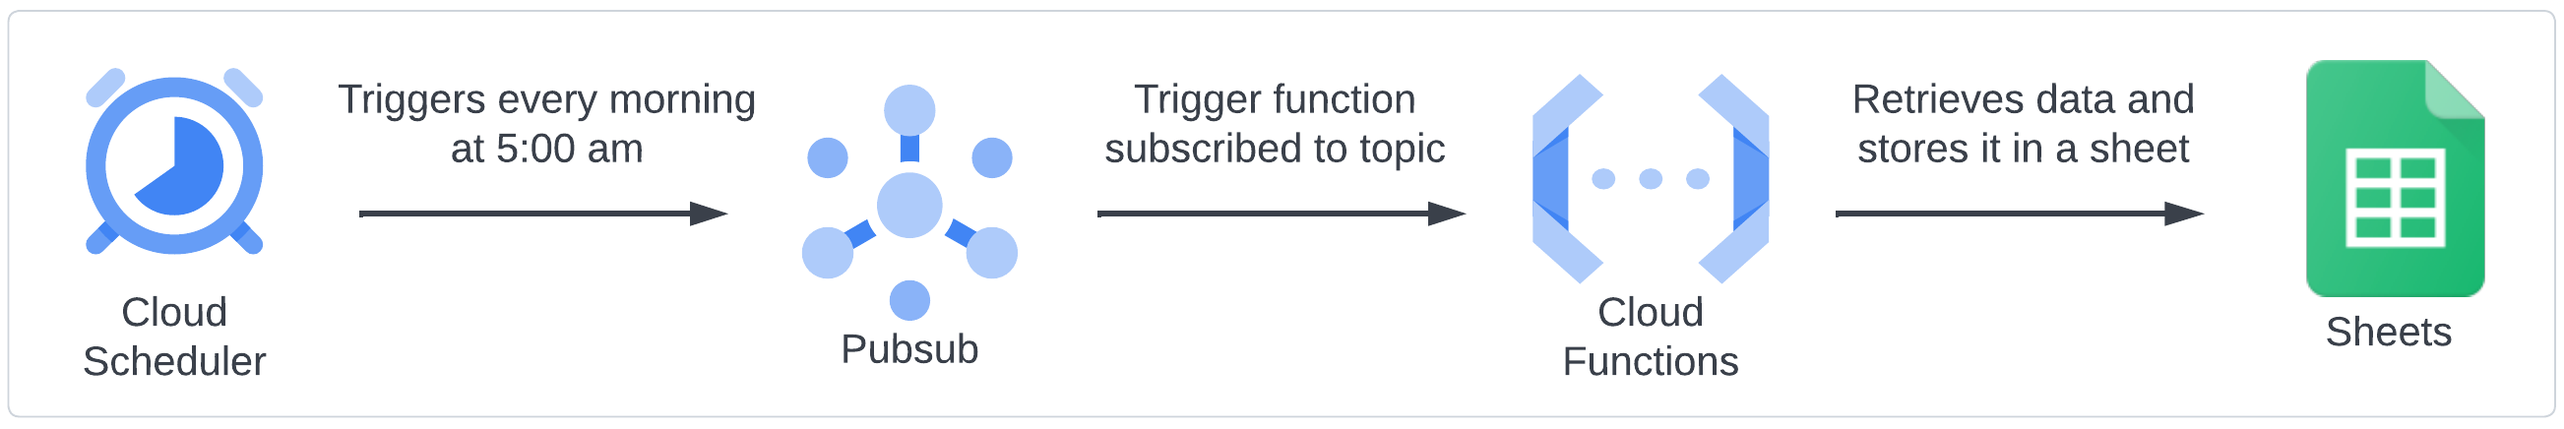
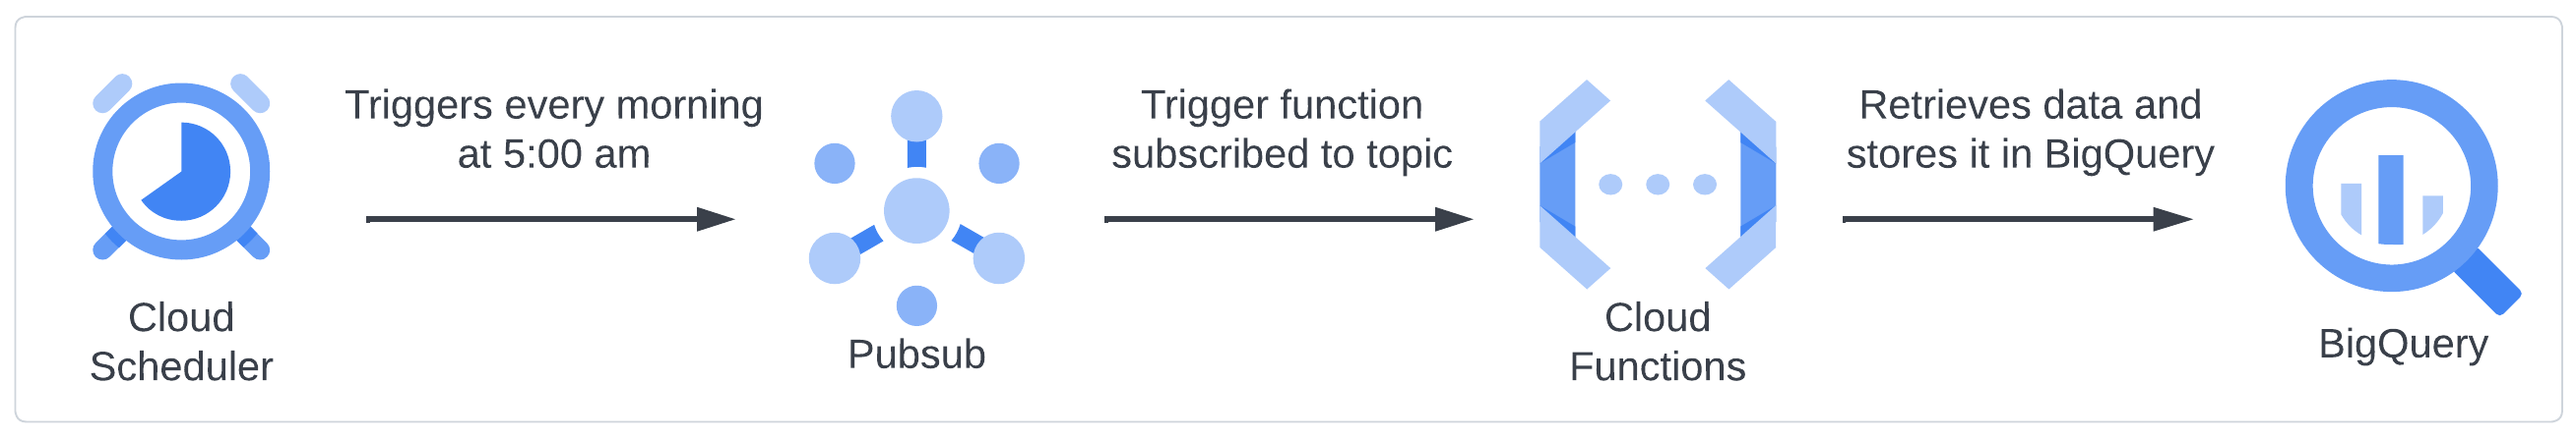
Updates readme/diagram with BiqQuery

diff --git a/proj-power-rankings/README.md b/proj-power-rankings/README.md
@@ -1,6 +1,6 @@
 # :bar_chart: proj-power-rankings
 ## Overview
-This project is the home of the Power Rankings project. At its core, it is a Python script that retrieves NHL scores from the night before and posts them to a Google Sheet. From there, linear regression is used to calculate power ratings of each time based on their season performance. Finally, each team is then ranked.
+This project is the home of the Power Rankings project. At its core, it is a Python script that retrieves NHL scores from the night before and writes them to a BigQuery table. From there, linear regression is used to calculate power ratings of each time based on their season performance. Finally, each team is then ranked.
 
 ## High-Level Architecture
 ![architecture](images/architecture.png)
@@ -14,5 +14,5 @@ This project is the home of the Power Rankings project. At its core, it is a Pyt
 ### Cloud Functions
 [Cloud Functions](https://cloud.google.com/functions/docs/concepts/overview) is a serverless execution environment that allows you to write simple, single-purposed functions that are attached to events. In this use case, the Cloud Function is subscribed to a Pub/Sub topic is runs every time that topic is triggered.
 
-### Google Sheets
-[Google Sheets](https://www.google.ca/sheets/about/) is an online spreadsheet solution. In this use case, it is a ingestion point for data generated from the Cloud Function.
+### BigQuery
+[BigQuery](https://cloud.google.com/bigquery/docs/introduction) is a managed enterprise data warehouse that helps manage and analyze data with built-in features such as machine learning. In this use case, BigQuery is used to store the data from the Cloud Function and to run machine learning algorithms on that data.
